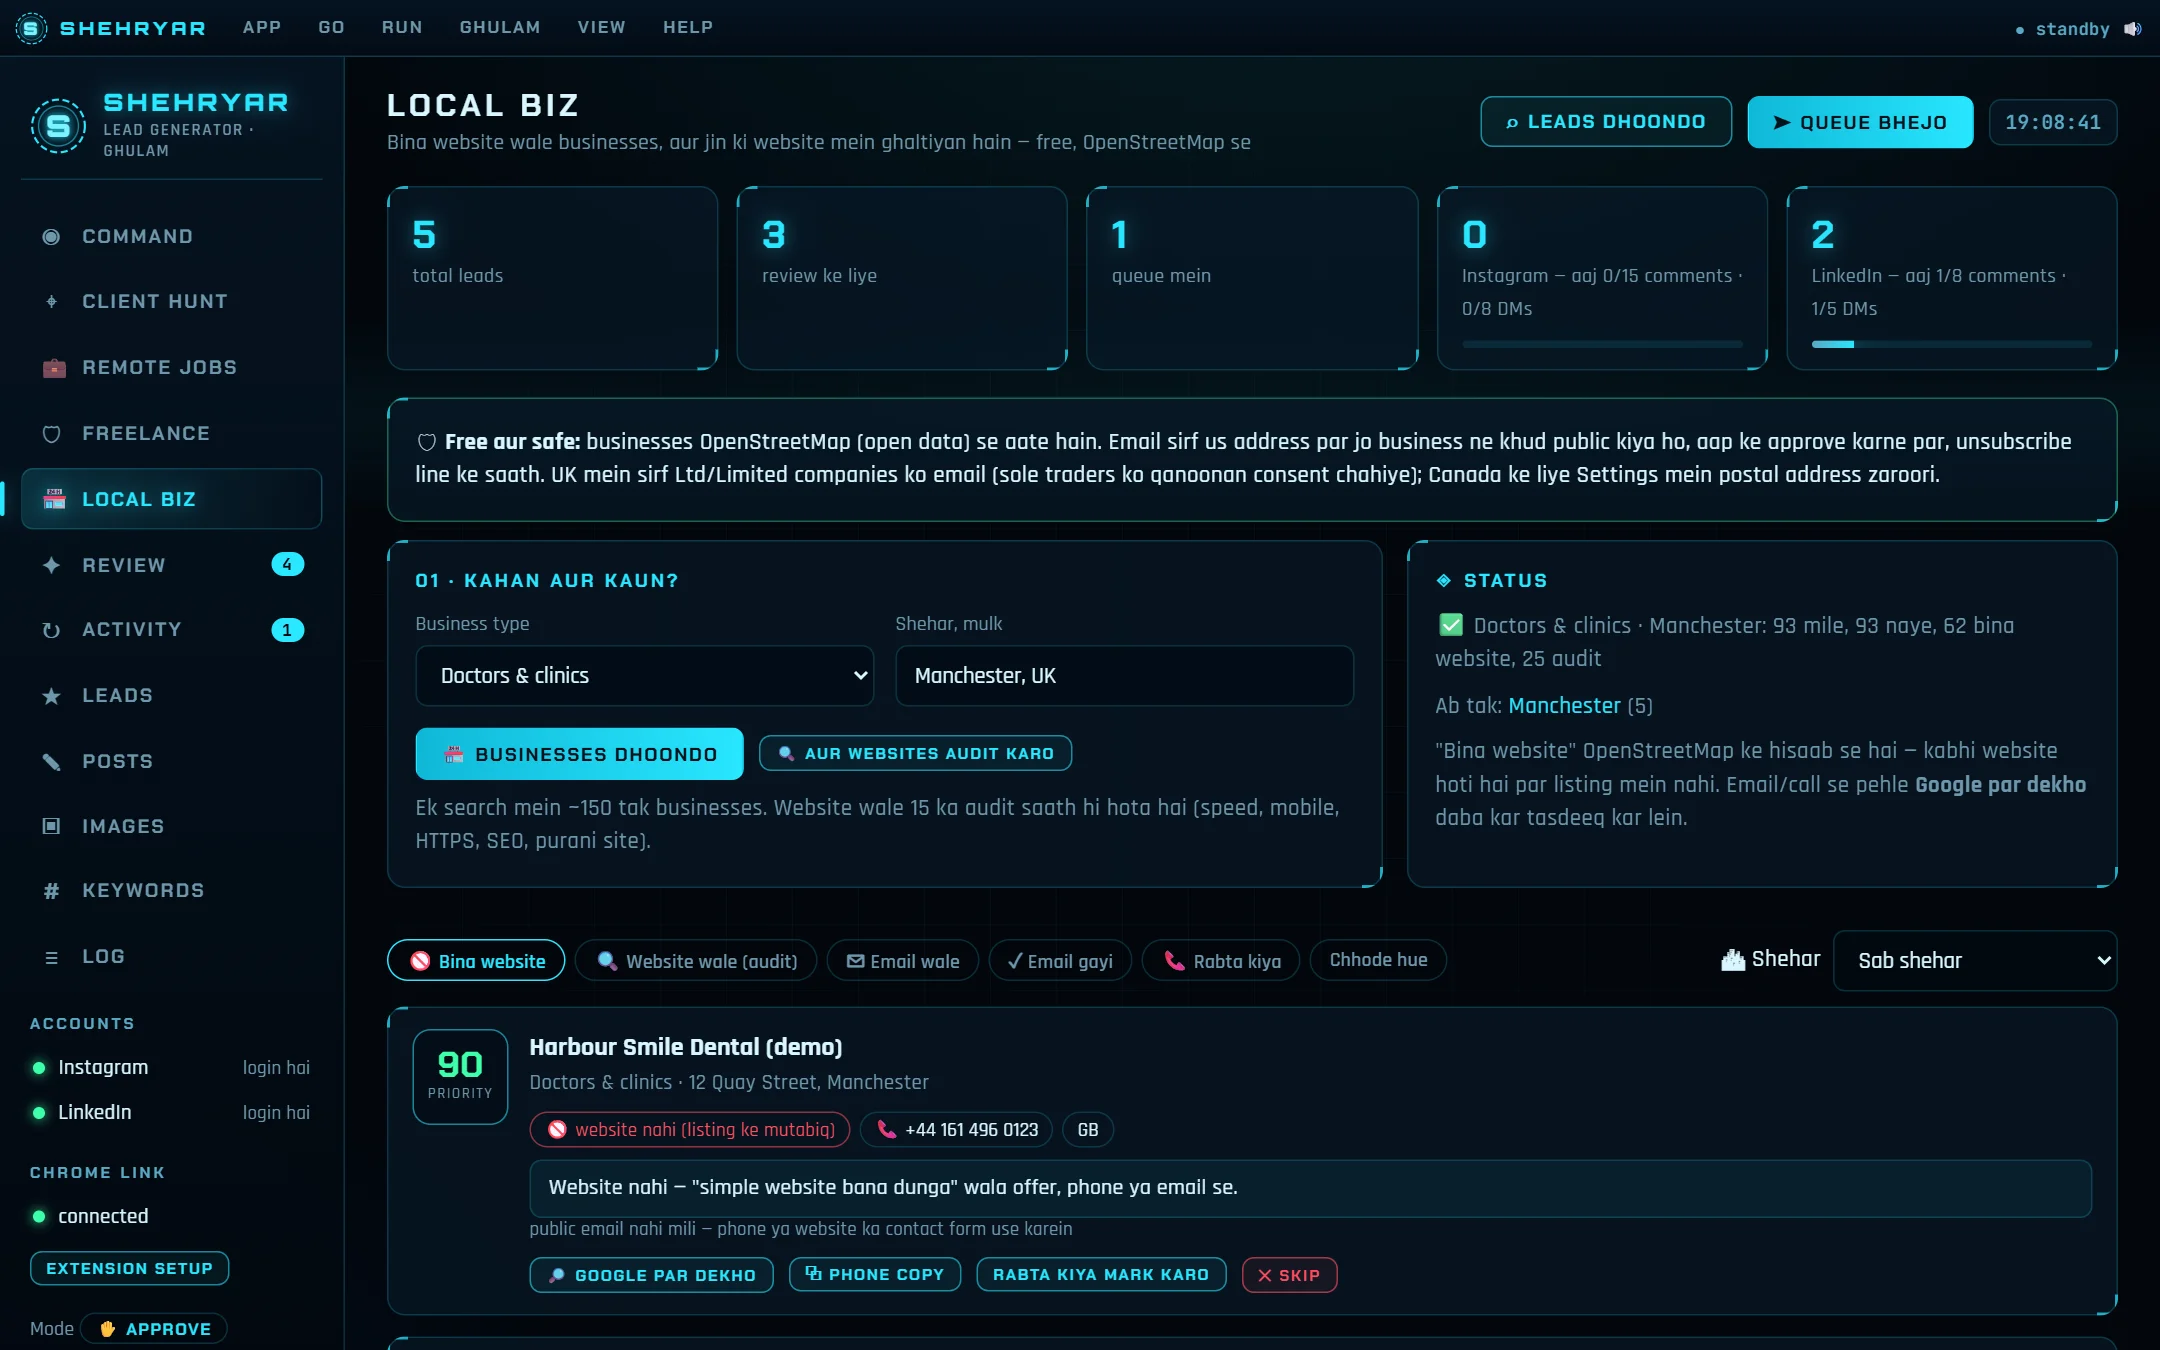
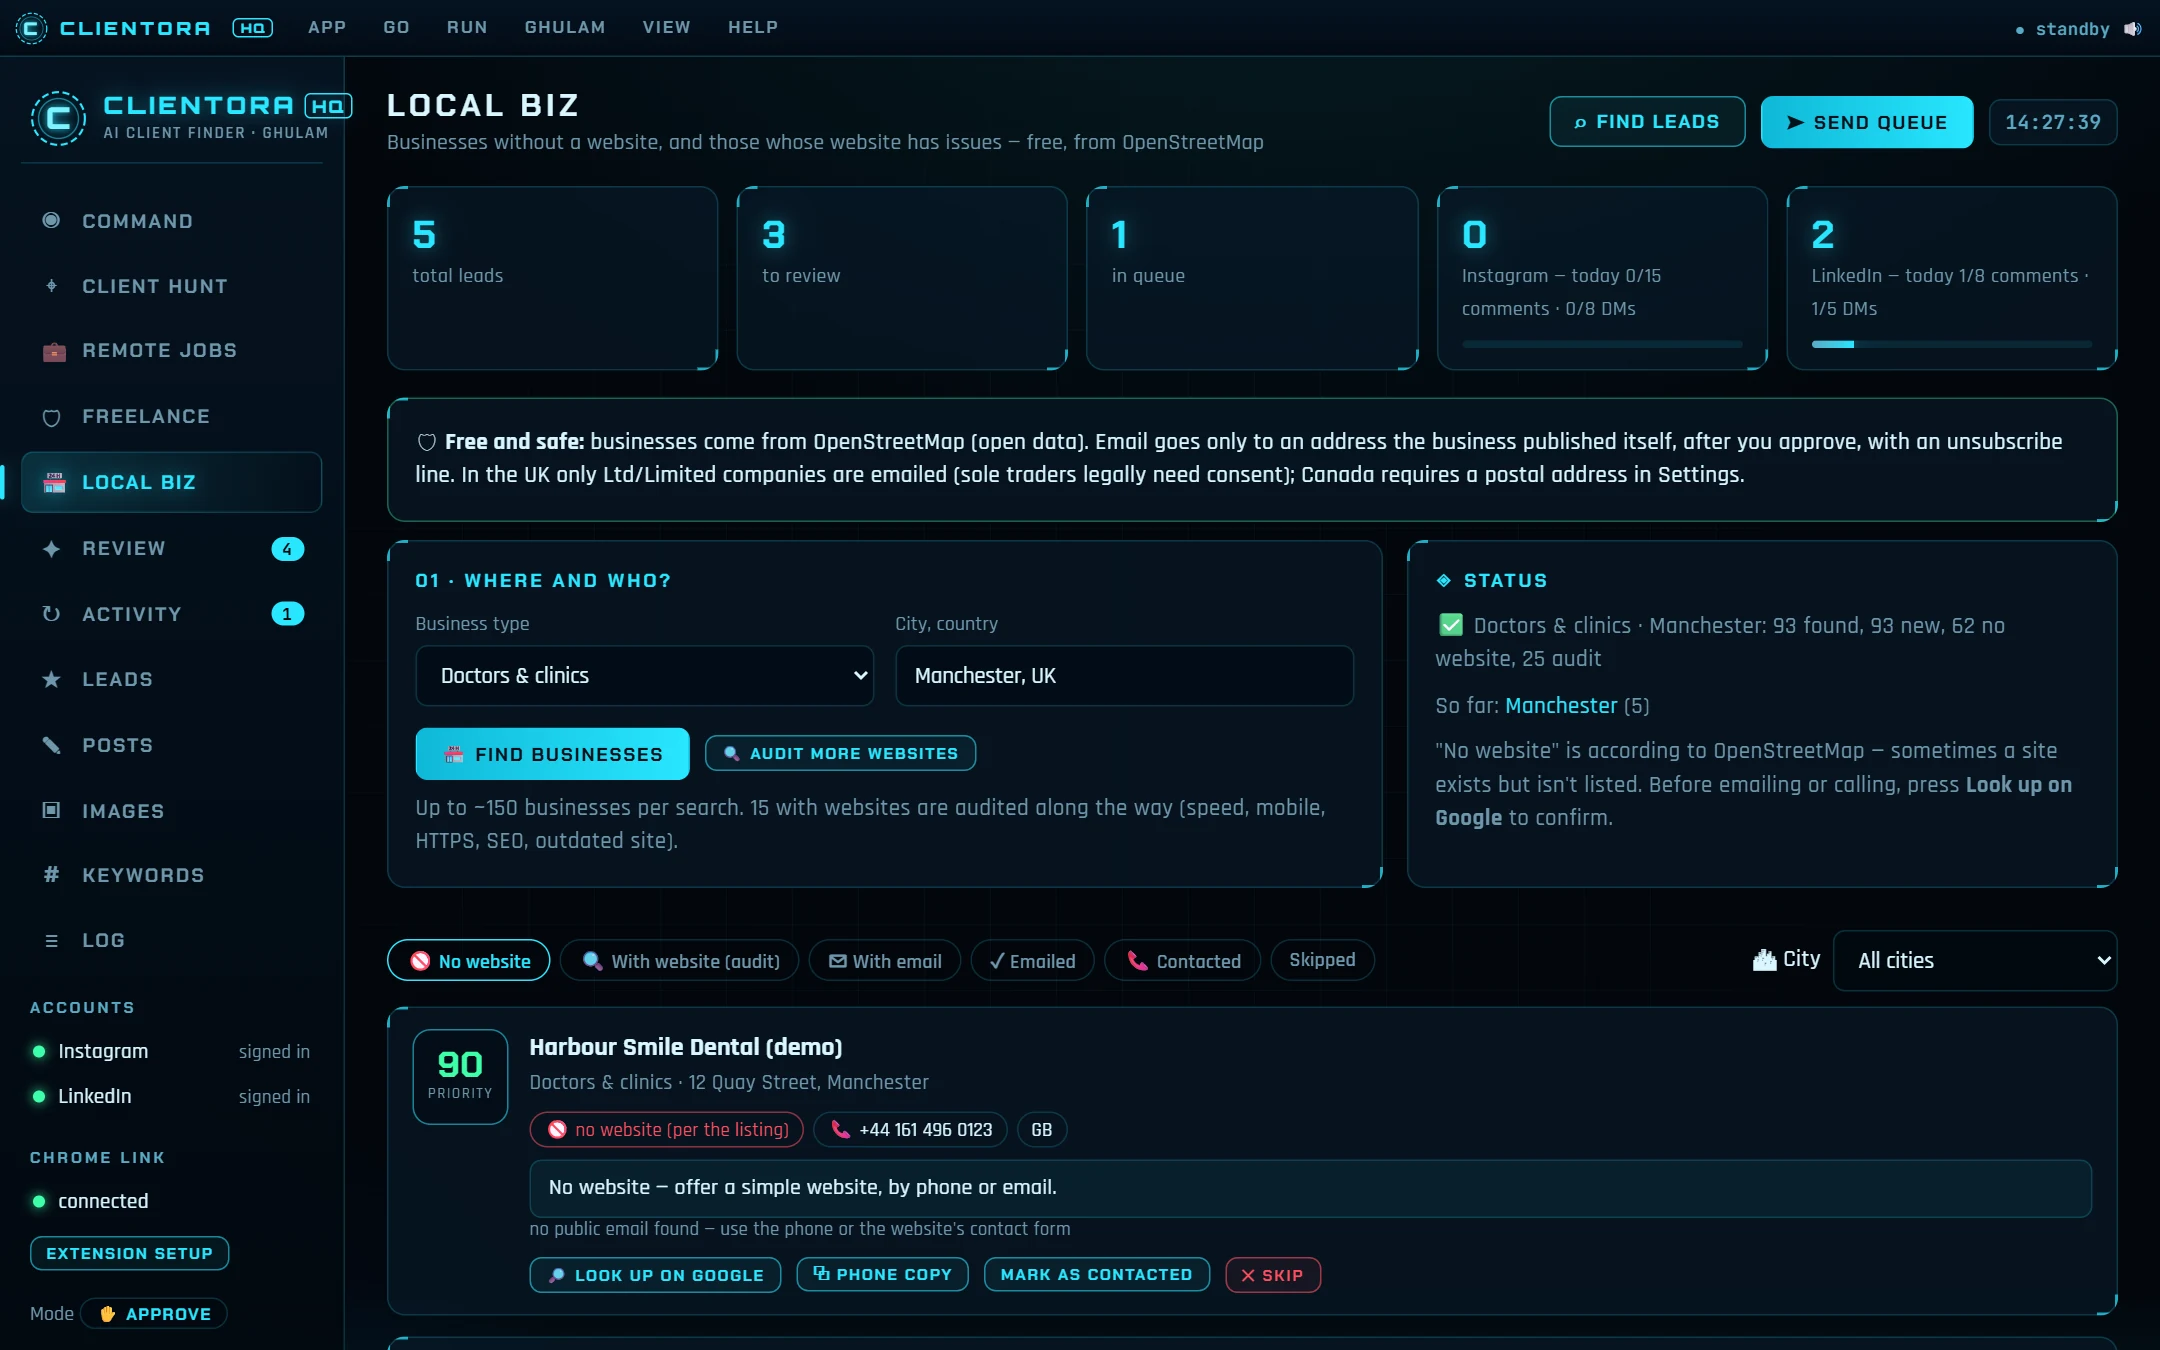
content: ClientoraHQ screenshots and #clientorahq anchor (no more old product name)

diff --git a/components/Hero.tsx b/components/Hero.tsx
@@ -100,7 +100,7 @@ export default function Hero() {
           {/* The product, introduced before anything else */}
           <motion.a
             {...item(0.05, 12)}
-            href="#lead-generator"
+            href="#clientorahq"
             className="group mb-7 inline-flex max-w-full items-center gap-2.5 rounded-full border border-white/10 bg-white/[0.03] py-1.5 pl-1.5 pr-4 text-xs text-mist transition-colors hover:border-iris-400/40"
           >
             <span className="rounded-full bg-lime px-2.5 py-1 font-mono text-[0.62rem] font-bold uppercase tracking-wider text-signal-ink">New</span>
@@ -215,7 +215,7 @@ export default function Hero() {
 
       {/* Scroll cue */}
       <motion.a
-        href="#lead-generator"
+        href="#clientorahq"
         {...item(1.4, 0)}
         aria-label="Scroll to my product"
         className="relative z-10 mx-auto mt-6 hidden flex-col items-center gap-1.5 text-fog transition-colors hover:text-mist sm:flex"

diff --git a/components/Product.tsx b/components/Product.tsx
@@ -185,7 +185,7 @@ function Showcase() {
 
 export default function Product() {
   return (
-    <section id="lead-generator" className="relative overflow-hidden px-5 py-28 sm:px-6 sm:py-36">
+    <section id="clientorahq" className="relative overflow-hidden px-5 py-28 sm:px-6 sm:py-36">
       {/* Static atmosphere: a dot grid and one cyan wash */}
       <div aria-hidden className="dot-grid pointer-events-none absolute inset-0" />
       <div

diff --git a/components/Navbar.tsx b/components/Navbar.tsx
@@ -9,7 +9,7 @@ import Magnetic from "./ui/Magnetic";
 import { site } from "@/lib/site";
 
 const links = [
-  { href: "/#lead-generator", id: "lead-generator", label: "Product" },
+  { href: "/#clientorahq", id: "clientorahq", label: "Product" },
   { href: "/#about", id: "about", label: "About" },
   { href: "/#experience", id: "experience", label: "Experience" },
   { href: "/#work", id: "work", label: "Work" },
